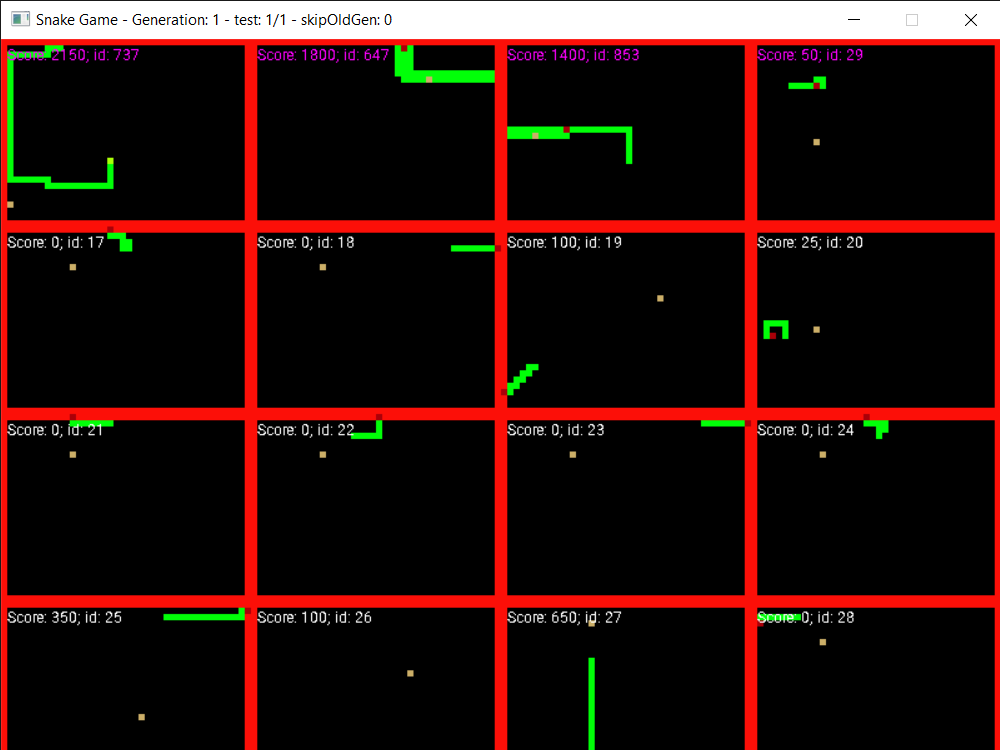
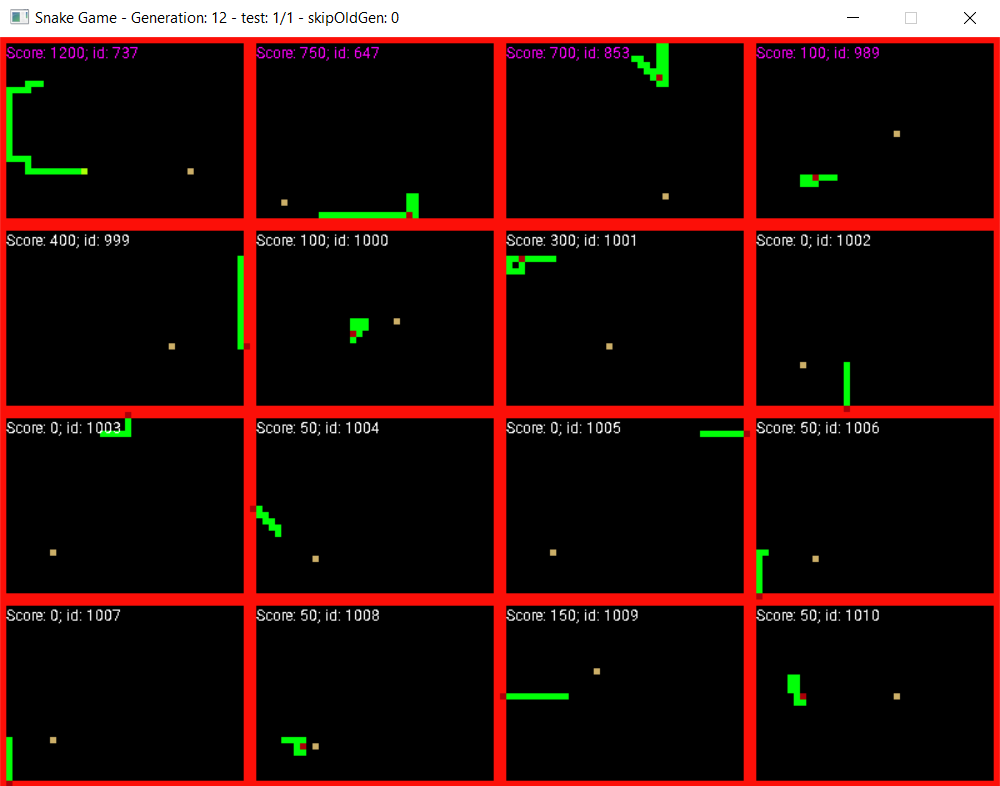
Update cmake & id genetic

diff --git a/Source/ANN/Source/GeneticAlgorithm.cpp b/Source/ANN/Source/GeneticAlgorithm.cpp
@@ -34,7 +34,7 @@ namespace ANN
 	CGeneticAlgorithm::CGeneticAlgorithm(EActivation activation, int topUnit) :
 		m_topUnit(topUnit),
 		m_maxUnit(0),
-		m_id(),
+		m_id(0),
 		m_mutateRate(0.2),
 		m_maxPertubation(4.0),
 		m_activation(activation)
@@ -187,6 +187,12 @@ namespace ANN
 				m_units[i]->TopUnit = false;
 			}
 		}
+	}
+
+	void CGeneticAlgorithm::setMutate(double mutateRate, double maxPertubation)
+	{
+		m_mutateRate = mutateRate;
+		m_maxPertubation = maxPertubation;
 	}
 
 	std::vector<SUnit*> CGeneticAlgorithm::crossOver(SUnit* parentA, SUnit* parentB)
@@ -361,6 +367,10 @@ namespace ANN
 			SUnit* unit = new SUnit();
 			unit->BestScored = io->readDouble();
 			unit->ID = io->readInt();
+
+			// update global id
+			if (m_id < unit->ID)
+				m_id = unit->ID;
 
 			// read ANN data
 			int size = io->readInt();

diff --git a/Source/Snake/Source/main.cpp b/Source/Snake/Source/main.cpp
@@ -443,6 +443,7 @@ int CALLBACK WinMain(
 	ANN::CGeneticAlgorithm aiGenetic(ANN::EActivation::Tanh);
 	const int dim[] = { 14, 128, 64, 4 };
 	aiGenetic.createPopulation(MAX_AI_UNIT, dim, 4);
+	aiGenetic.setMutate(0.25, 2.0);
 
 	int moveSpeed = 60;
 
@@ -705,10 +706,10 @@ int CALLBACK WinMain(
 					score[agentId] = 0;
 					snake[agentId].live();
 					waitStuckTime[agentId] = maxTime;
-				}
+			}
 #endif
 				break;
-			};
+		};
 
 			bool topUnit = false;
 
@@ -796,7 +797,7 @@ int CALLBACK WinMain(
 				{
 					autoSaveTime = autoSaveInputTime;
 					needSaveInput = true;
-				}
+			}
 #endif
 
 				if (elapsed - lastElapsed > moveSpeed) {
@@ -912,8 +913,8 @@ int CALLBACK WinMain(
 						fclose(f);
 					}
 #endif
-				}
-			}
+	}
+}
 			else
 			{
 				// is die

diff --git a/Source/ANN/Source/GeneticAlgorithm.h b/Source/ANN/Source/GeneticAlgorithm.h
@@ -77,6 +77,8 @@ namespace ANN
 
 		void selection();
 
+		void setMutate(double mutateRate, double maxPertubation);
+
 		std::vector<SUnit*> crossOver(SUnit* parentA, SUnit* parentB);
 
 		SUnit* cloneUnit(SUnit* parent);
